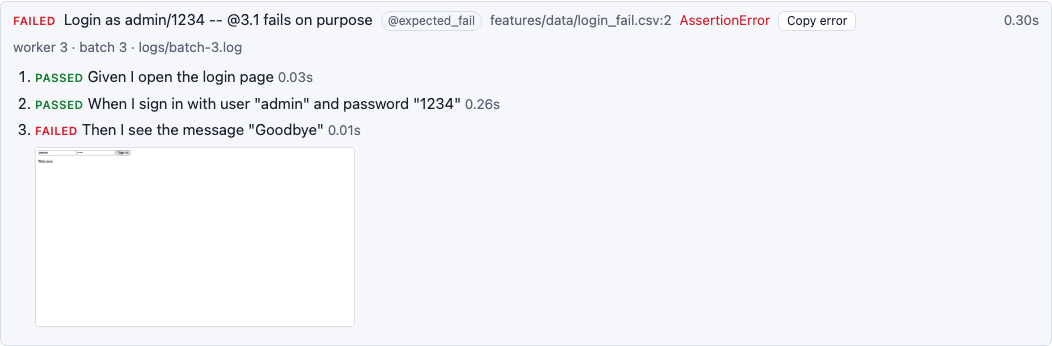
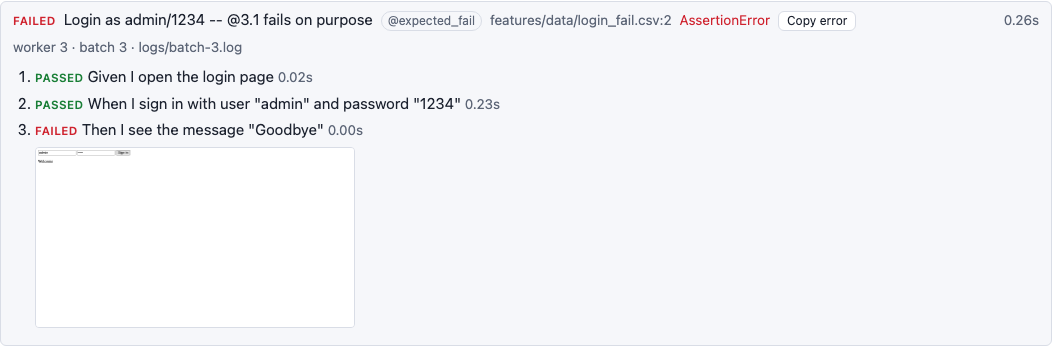
docs: bring the README up to date with JSON and Windows
Rename the CSV section to cover JSON, refresh the screenshots from the current
example, and add a README check to the release checklist.

diff --git a/README.md b/README.md
@@ -13,7 +13,7 @@ Run [behave](https://github.com/behave/behave) 1.3.x scenarios in parallel, read
 
 Your steps, your `environment.py` and the way you write features stay the same. A `.feature` without data-file cells runs exactly as it does with behave. behave-hive complements behave; if you only need a parallel runner with its own report, [BehaveX](https://github.com/hrcorval/behavex) is another option.
 
-**Contents:** [Installation](#installation) · [Quick start](#quick-start) · [Examples from CSV](#examples-from-csv) · [Running](#running) · [Configuration](#configuration) · [Reports](#reports) · [Examples](#examples) · [Limitations](#limitations) · [Roadmap](#roadmap) · [Contributing](#contributing) · [Releasing](#releasing)
+**Contents:** [Installation](#installation) · [Quick start](#quick-start) · [Examples from CSV and JSON](#examples-from-csv-and-json) · [Running](#running) · [Configuration](#configuration) · [Reports](#reports) · [Examples](#examples) · [Limitations](#limitations) · [Roadmap](#roadmap) · [Contributing](#contributing) · [Releasing](#releasing)
 
 ## Installation
 
@@ -70,7 +70,7 @@ batch 2 · worker 2 · 1 scenario · passed · 1.6s
 
 Open `report.html` (project root by default) for the result; the Cucumber JSON, Allure results and logs are in `reports/`. The steps used here are in [`example/`](https://github.com/albertor03/behave-hive/tree/main/example/), which runs as is.
 
-## Examples from CSV
+## Examples from CSV and JSON
 
 ```gherkin
 Feature: Login

diff --git a/AGENTS.md b/AGENTS.md
@@ -74,7 +74,7 @@ A change is done when all of these hold, and you report the real output, not a s
 - `ruff check src tests` is clean (complexity at most 10, no exceptions) and `pylint src` is 10/10;
 - the CI `coverage` job, which combines the Linux and Windows runs, shows `missing_lines` and `missing_branches` both zero and no excluded lines; a local run on macOS or Linux may miss only the `os.name == "nt"` code. Report statement and branch counts separately; the combined percentage is not branch coverage. Every module of `src/behave_hive` stays in the denominator; never add `omit` or exclusion patterns to reach the gate;
 - `pip-audit` reports no vulnerabilities;
-- README, CHANGELOG and `example/` are updated when behavior a user can see changes.
+- README, CHANGELOG and `example/` are updated when behavior a user can see changes. Before a release, reread the whole README (features, section titles, table of contents, limitations, screenshots) against the CHANGELOG: it becomes the PyPI page and cannot be edited afterwards.
 
 ## Conventions
 

diff --git a/docs/RELEASING.md b/docs/RELEASING.md
@@ -43,6 +43,10 @@ gh api repos/albertor03/behave-hive/environments/pypi/deployment-branch-policies
 
 1. Bump `project.version` in `pyproject.toml` on `develop` (and version assertions
    in the tests), and add `## [X.Y.Z] - YYYY-MM-DD` with notes to `CHANGELOG.md`.
+   Read the README as the PyPI page will show it: every new capability is described,
+   section titles and the table of contents match, and the screenshots show the current
+   report (`python docs/screenshots.py` when `example/` or the report changed). A
+   published page cannot be edited, only the next release fixes it.
 2. Merge `develop` into `main` through a passing pull request.
 3. Create the matching tag `vX.Y.Z` on that commit; accepted prereleases are
    `vX.Y.ZaN`, `vX.Y.ZbN` and `vX.Y.ZrcN`, matching the project version exactly.
